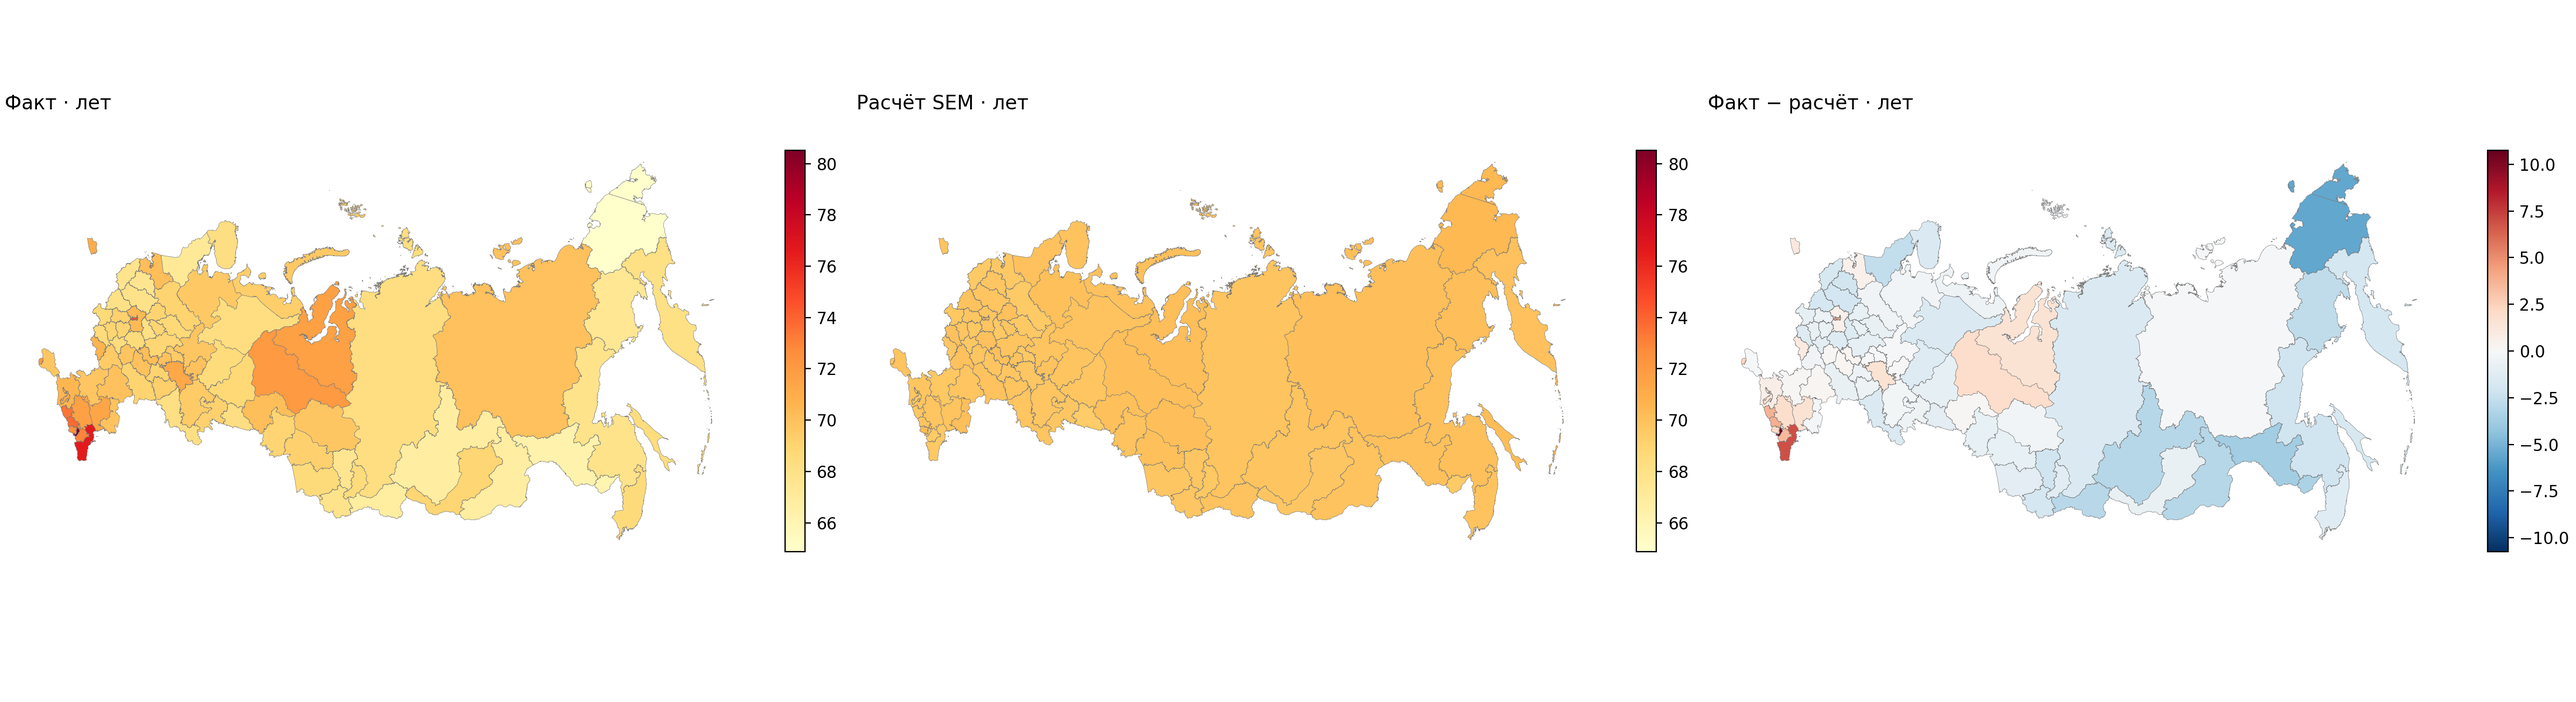
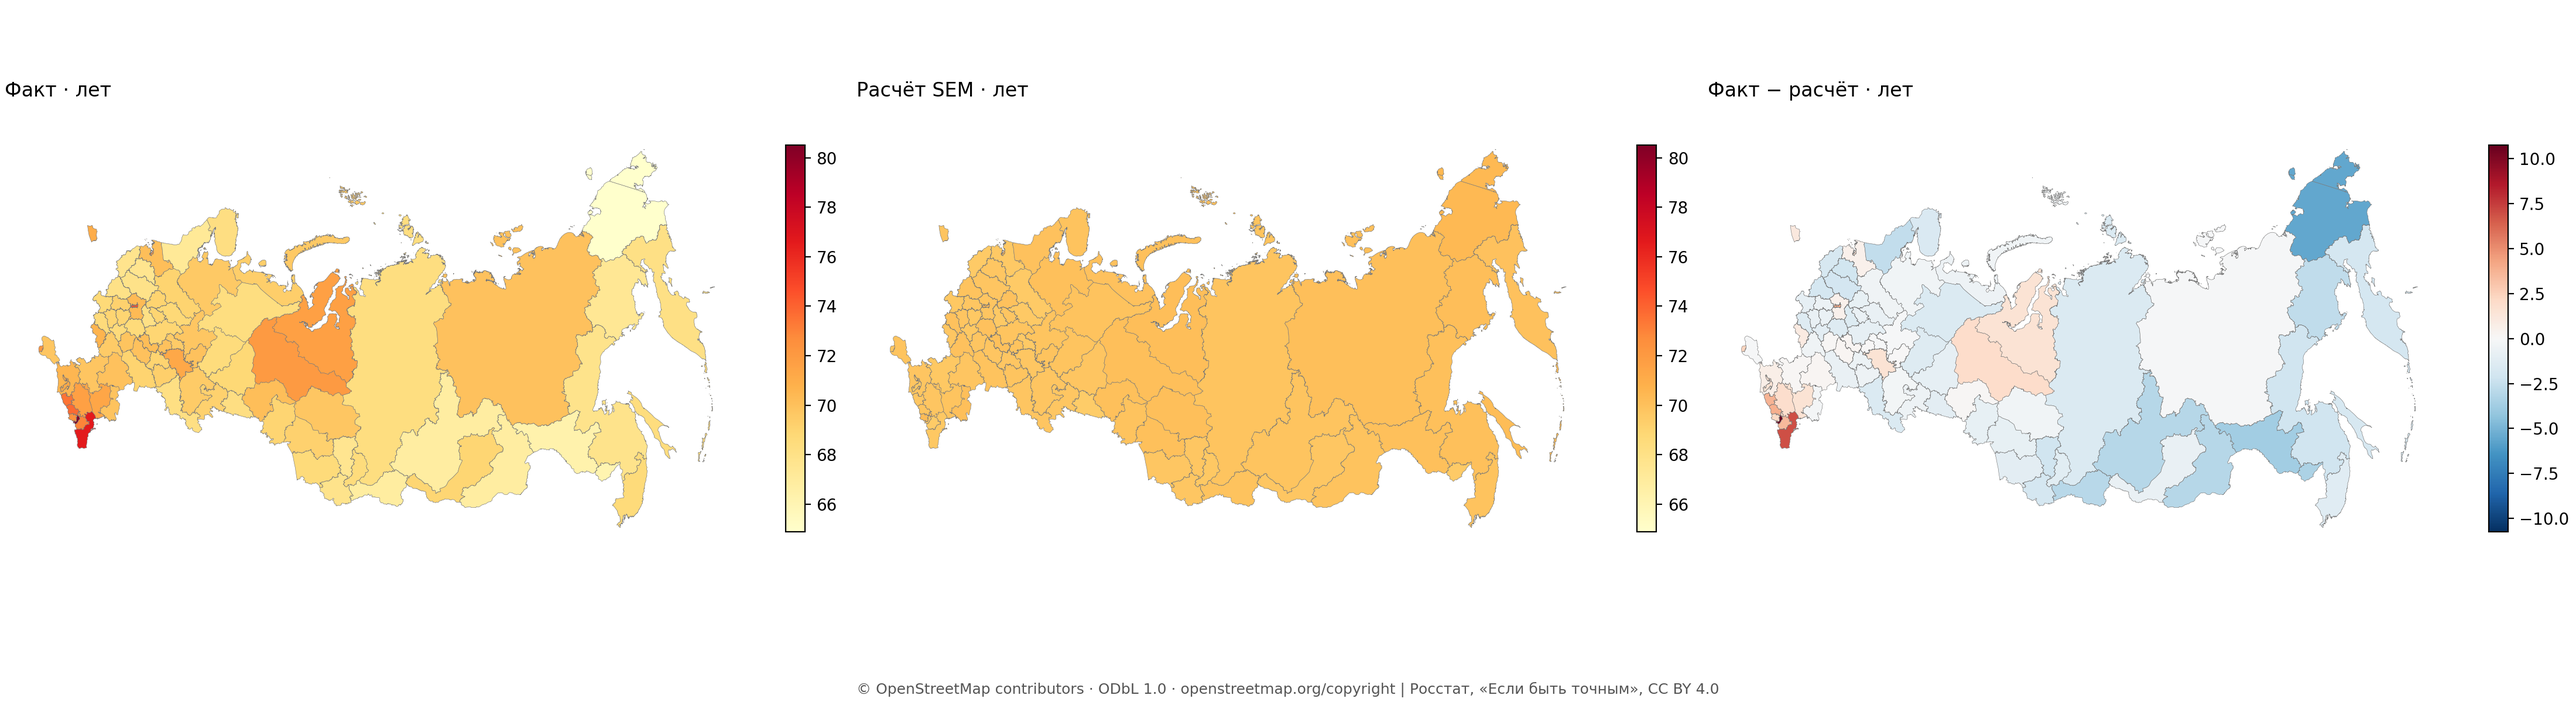
Finalize spatial diagnostics, reproducibility and team attribution

diff --git a/analyze_spatial_models.py b/analyze_spatial_models.py
@@ -31,6 +31,8 @@ OUT = ROOT / "results"
 MAPS = ROOT / "maps"
 SEED = 20261118
 PERMUTATIONS = 999
+LOCAL_PERMUTATIONS = 9999
+MAP_SOURCE = "© OpenStreetMap contributors · ODbL 1.0 · openstreetmap.org/copyright | Росстат, «Если быть точным», CC BY 4.0"
 PROJECTION = "+proj=laea +lat_0=62 +lon_0=100 +datum=WGS84 +units=m +type=crs"
 
 
@@ -155,12 +157,23 @@ def local_moran(gdf: gpd.GeoDataFrame, w: W) -> pd.DataFrame:
     output = pd.DataFrame({"object_okato": gdf.object_okato})
     for variable, prefix in (("life_expectancy_years", "life"), ("doctors_per_10000", "doctors")):
         np.random.seed(SEED)
-        lisa = Moran_Local(gdf[variable].to_numpy(float), w, permutations=PERMUTATIONS,
-                           seed=SEED, n_jobs=1)
-        rejected, qvals, _, _ = multipletests(lisa.p_sim, alpha=0.05, method="fdr_bh")
+        lisa = Moran_Local(gdf[variable].to_numpy(float), w, permutations=LOCAL_PERMUTATIONS,
+                           seed=SEED, n_jobs=1, keep_simulations=True)
+        # Explicit two-sided equal-tail conditional randomization test;
+        # inclusive ties and add-one correction in both tails.
+        sim = np.asarray(lisa.sim)
+        observed = np.asarray(lisa.Is)
+        assert sim.shape == (LOCAL_PERMUTATIONS, len(gdf))
+        ties = np.isclose(sim, observed, rtol=1e-12, atol=1e-12)
+        lower = (np.count_nonzero((sim < observed) | ties, axis=0) + 1) / (LOCAL_PERMUTATIONS + 1)
+        upper = (np.count_nonzero((sim > observed) | ties, axis=0) + 1) / (LOCAL_PERMUTATIONS + 1)
+        p_two = np.minimum(1.0, 2 * np.minimum(lower, upper))
+        rejected, qvals, _, _ = multipletests(p_two, alpha=0.05, method="fdr_bh")
         labels = np.array(["HH", "LH", "LL", "HL"])
         output[f"{prefix}_local_I"] = lisa.Is
-        output[f"{prefix}_local_p"] = lisa.p_sim
+        output[f"{prefix}_local_p"] = p_two
+        output[f"{prefix}_local_p_lower"] = lower
+        output[f"{prefix}_local_p_upper"] = upper
         output[f"{prefix}_local_q_fdr"] = qvals
         output[f"{prefix}_LISA_5pct_FDR"] = np.where(rejected, labels[lisa.q - 1], "NS")
     return output
@@ -185,6 +198,7 @@ def make_maps(gdf: gpd.GeoDataFrame, results: pd.DataFrame, chosen: str,
     fig, axes = plt.subplots(1, 2, figsize=(19, 7), layout="constrained")
     add_map(axes[0], display, "doctors_per_10000", "Врачи на 10 000 жителей · 2021", "YlGnBu")
     add_map(axes[1], display, "life_expectancy_years", "Ожидаемая продолжительность жизни · 2021, лет", "YlOrRd")
+    fig.supxlabel(MAP_SOURCE, fontsize=9, color="#555555")
     fig.savefig(MAPS / "01_indicators.png", dpi=200)
     plt.close(fig)
 
@@ -197,6 +211,7 @@ def make_maps(gdf: gpd.GeoDataFrame, results: pd.DataFrame, chosen: str,
     add_map(axes[0], display, "life_expectancy_years", "Факт · лет", "YlOrRd", low, high)
     add_map(axes[1], display, pred, f"Расчёт {chosen} · лет", "YlOrRd", low, high)
     add_map(axes[2], display, err, "Факт − расчёт · лет", "RdBu_r", -span, span)
+    fig.supxlabel(MAP_SOURCE, fontsize=9, color="#555555")
     fig.savefig(MAPS / "02_final_model.png", dpi=200)
     plt.close(fig)
 
@@ -207,6 +222,7 @@ def make_maps(gdf: gpd.GeoDataFrame, results: pd.DataFrame, chosen: str,
             -max(abs(display[err].min()), abs(display[err].max())),
             max(abs(display[err].min()), abs(display[err].max())))
     add_map(axes[1], display, innovation, f"Инновации {chosen} после пространственной фильтрации", "RdBu_r", -span, span)
+    fig.supxlabel(MAP_SOURCE, fontsize=9, color="#555555")
     fig.savefig(MAPS / "04_residual_diagnostics.png", dpi=200)
     plt.close(fig)
 
@@ -218,9 +234,10 @@ def make_maps(gdf: gpd.GeoDataFrame, results: pd.DataFrame, chosen: str,
             subset = display[display[col] == label]
             if len(subset):
                 subset.plot(ax=ax, color=color[label], edgecolor="#777777", linewidth=0.22, label=label)
-        ax.set_title(title + " · FDR 5%", fontsize=12, loc="left")
+        ax.set_title(title + " · FDR 5%, двусторонний тест", fontsize=12, loc="left")
         ax.set_axis_off()
         ax.legend(handles=[Patch(facecolor=color[k], edgecolor="#777777", label=k) for k in ("HH", "LL", "HL", "LH", "NS")], loc="lower left", ncol=5, fontsize=8)
+    fig.supxlabel(MAP_SOURCE, fontsize=9, color="#555555")
     fig.savefig(MAPS / "03_local_moran.png", dpi=200)
     plt.close(fig)
     display.to_crs(4326).to_file(OUT / "regional_results.geojson", driver="GeoJSON")
@@ -252,6 +269,7 @@ def main() -> None:
                    "OLS_Breusch_Pagan": models["OLS"].breusch_pagan,
                    "OLS_Koenker_Bassett": models["OLS"].koenker_bassett,
                    "selected_by_AIC": chosen}
+    diagnostics["LISA_method"] = {"permutations": LOCAL_PERMUTATIONS, "seed": SEED, "alternative": "two-sided equal-tail conditional randomization", "ties": "inclusive, tolerance 1e-12", "adjustment": "BH per indicator, 85 tests"}
     diagnostics["LISA_FDR_counts"] = {col: local[col].value_counts().to_dict()
                                       for col in ("doctors_LISA_5pct_FDR", "life_LISA_5pct_FDR")}
     alt_models = fit_models(gdf, knn)

diff --git a/verify_results.py b/verify_results.py
@@ -85,6 +85,25 @@ def main():
     print('Data, 384 directed weights, two components, CSV/GeoJSON consistency: PASS')
     for key,v in [('doctors_per_10000',x),('life_expectancy_years',y)]:
         print(key, 'min/median/mean/max/sd:',*[round(z,4) for z in (v.min(),np.median(v),v.mean(),v.max(),v.std(ddof=1))])
-    print('Independent numerical verification passed. Permutation p-values and GIS topology require the full PySAL pipeline.')
+    local=read('results/local_moran.csv')
+    assert len(local)==85 and {r['object_okato'] for r in local}==set(ids)
+    assert diag['LISA_method']['permutations']==9999
+    for prefix in ('life','doctors'):
+        lower=np.array([val(r,prefix+'_local_p_lower') for r in local])
+        upper=np.array([val(r,prefix+'_local_p_upper') for r in local])
+        assert ((lower>0)&(lower<=1)&(upper>0)&(upper<=1)).all()
+        pv=np.minimum(1,2*np.minimum(lower,upper))
+        close(pv,[val(r,prefix+'_local_p') for r in local],atol=1e-12)
+        # Independent Benjamini-Hochberg adjustment on each indicator.
+        order=np.argsort(pv)
+        q=np.empty_like(pv)
+        q[order]=np.minimum(1,np.minimum.accumulate((pv[order]*len(pv)/np.arange(1,len(pv)+1))[::-1])[::-1])
+        close(q,[val(r,prefix+'_local_q_fdr') for r in local],atol=1e-12)
+        labels=[r[prefix+'_LISA_5pct_FDR'] for r in local]
+        assert all(label in {'HH','LH','LL','HL','NS'} for label in labels)
+        assert np.array_equal(q<=0.05,np.array(labels)!='NS')
+        assert dict(collections.Counter(labels))==diag['LISA_FDR_counts'][prefix+'_LISA_5pct_FDR']
+    print('LISA two-tail p-values, BH adjustment and class counts: PASS')
+    print('Independent numerical verification passed. Simulation of raw permutation distributions and GIS topology require the full PySAL pipeline.')
 if __name__=='__main__':
     main()

diff --git a/visualize_weights.py b/visualize_weights.py
@@ -152,6 +152,7 @@ def main() -> None:
         label = f"{names[bridge['island_okato']]} → {names[bridge['neighbor_okato']]}"
         draw.text((1690*SCALE, (1021 + index*30)*SCALE), label, font=font(15), fill="#9b4c2f")
 
+    draw.text((60*SCALE, 1115*SCALE), "© OpenStreetMap contributors · ODbL 1.0 · openstreetmap.org/copyright", font=font(14), fill="#637087")
     OUTPUT.parent.mkdir(exist_ok=True)
     image.save(OUTPUT, optimize=True)
     print(f"Saved {OUTPUT} ({image.width}x{image.height})")

diff --git a/docs/defense.md b/docs/defense.md
@@ -1,0 +1,27 @@
+# Подготовка к семинару-защите
+
+Команда № 1; 10 минут доклад, 10 минут обсуждение. Ссылка на открытый репозиторий передаётся преподавателю до начала защиты. Все четверо должны знать весь проект.
+
+## План выступления (без презентации)
+
+| Участник | Время | Что объяснить |
+|---|---:|---|
+| Владислав Давидович | 2 мин | Задача, гипотеза, интеграция и общий вывод; ограничения интерпретации |
+| Мария Протасова | 2 мин | Источники, 2021 год, исключение агрегатов, ОКАТО, географическая привязка, контроль площадей |
+| Владимир Павлов | 3 мин | Тематические карты, Moran I, OLS и SAR, пространственные эффекты |
+| Илья Юсов | 3 мин | W, SEM, сравнение, диагностика, чувствительность, итоговые карты |
+
+## Контрольные вопросы
+
+- Почему 85 регионов, а не все строки CSV? Исключены агрегаты страны, округов и двух областей с АО; выборка соответствует статистике 2021 года.
+- Почему ключ ОКАТО? Он уникален; ОКТМО 11800000 повторяется. География привязана к статистическим кодам через явный crosswalk.
+- Почему Queen? Соседство по границе и вершине; два изолированных региона соединены с ближайшими представителями. Две компоненты сохранены, все строки нормированы.
+- Что различает SAR и SEM? SAR включает пространственный лаг Y, SEM — зависимость ошибок; значимый lambda не доказывает причинный эффект X.
+- Почему SEM? AIC 350,35 против SAR 350,96; робастный LM-Error значим. Перевес слабый, OLS имеет меньшую внутривыборочную RMSE, но её инновации автокоррелированы.
+- Что означает Moran I? Для Y 0,457 (pseudo-p 0,001), для X 0,052 (0,207). Локальная диагностика использует 9 999 перестановок, двусторонний тест, FDR; четыре значимых региона по Y, ни одного по X.
+- Есть ли доказанная связь врачей с продолжительностью жизни? Нет: в основной SEM p=0,236; результат чувствителен к W. Один год и один фактор не позволяют установить причинность.
+- Какие ограничения? Исторические границы не подтверждены точно, 2021 год специфичен, пропущены факторы, остатки OLS ненормальны, модели оцениваются внутри выборки.
+
+## Оппонирование
+
+До семинара изучить назначенный преподавателем чужой репозиторий. Проверить, как сопоставлены регионы, что сделано с изолятами, почему выбрана W, одинаковы ли выборки и метрики, как проверялась устойчивость и воспроизводимость. Сформулировать 2–3 адресных вопроса с указанием конкретных файлов или результатов. Без доступа к проекту оппонентов нельзя заранее утверждать наличие ошибок.

diff --git a/data/README.md b/data/README.md
@@ -6,7 +6,7 @@
 
 Подготовленная база: merged_geodata/regions_2021_attributes.csv и regions_2021_geospatial.geojson. Географическая основа и производные пространственные данные OSM доступны на условиях ODbL; статистические показатели сохраняют атрибуцию CC BY 4.0. Изменения: привязка регионов, присоединение показателей, уточнение четырёх меток федеральных округов. Скрипты позволяют получить производную базу повторно.
 
-Геометрия Polygon/MultiPolygon, EPSG:4326. Историческая точность границ на 2021 год и охват областей без АО не подтверждены независимо. Состав территорий соответствует использованному статистическому набору за 2021 год; карты не являются утверждением о международно-правовом статусе территорий.
+Геометрия Polygon/MultiPolygon, EPSG:4326. Сопоставление площадей поддерживает соответствие областей геометриям без АО (см. [extent_check.md](extent_check.md)); точные исторические границы на 2021 год независимо не подтверждены. Состав территорий соответствует использованному статистическому набору за 2021 год; карты не являются утверждением о международно-правовом статусе территорий.
 
 - prepared_statistics/ — отбор показателей, таблицы и аудит.
 - prepared_geography/ — таблица соответствия и геометрическая диагностика.

diff --git a/data/extent_check.md b/data/extent_check.md
@@ -1,0 +1,10 @@
+# Проверка территориального охвата
+
+Площади геометрий рассчитаны в равновеликой проекции LAEA (+lat_0=62 +lon_0=100, WGS84), в км².
+
+| Территория | Геометрия | Справочная площадь без АО | Отклонение |
+|---|---:|---:|---:|
+| Архангельская область (ОКАТО 11200000) | 406 164 | 413 103 | −1,68% |
+| Тюменская область (ОКАТО 71200000) | 159 856 | 160 122 | −0,17% |
+
+Источники: [МЧС России — характеристика Архангельской области](https://29.mchs.gov.ru/glavnoe-upravlenie/harakteristika-subekta), [таблица площадей регионов (Terravisor, данные Росстата)](https://www.terravisor.com/data/regions/territory). В исходной базе нет площадного перекрытия полигонов, автономные округа представлены отдельно. Площади значительно ближе к величинам без АО, чем к агрегированным областям. Это проверка общего охвата, а не доказательство совпадения каждой границы на 2021 год; различия могут отражать генерализацию, береговую линию и метод определения площади. Флаги проверки и эксперимент исключения двух областей сохранены.
